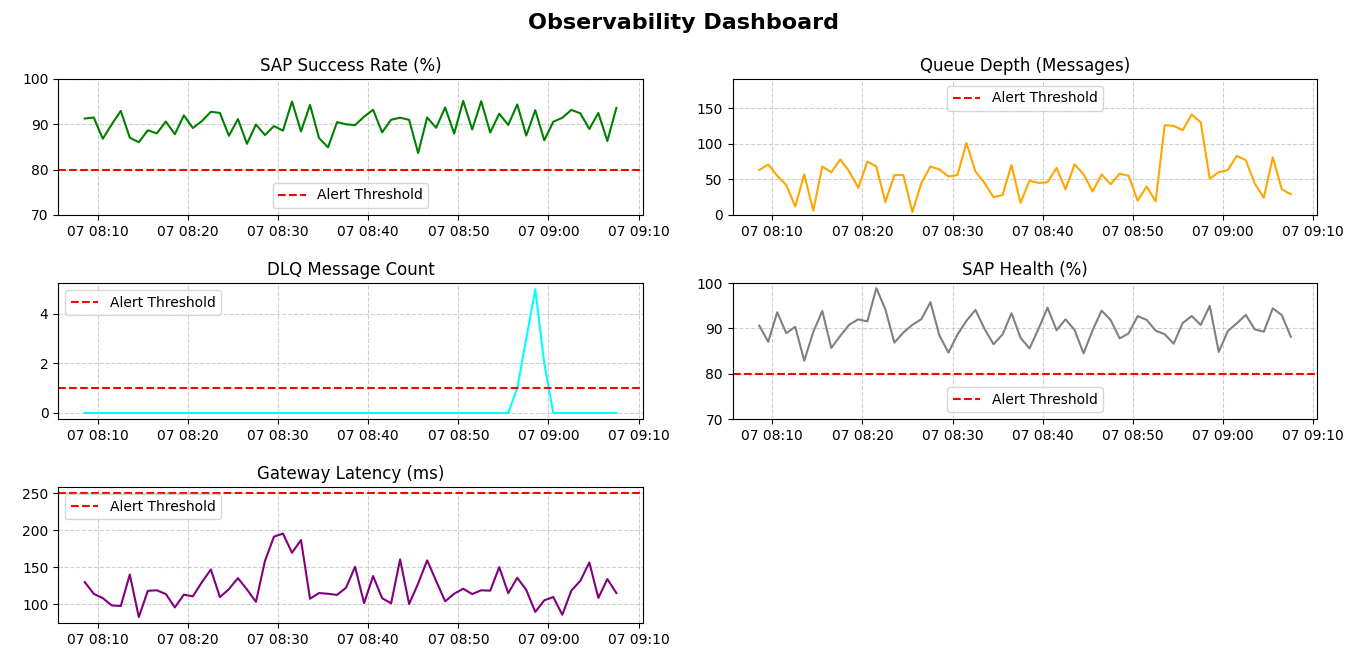
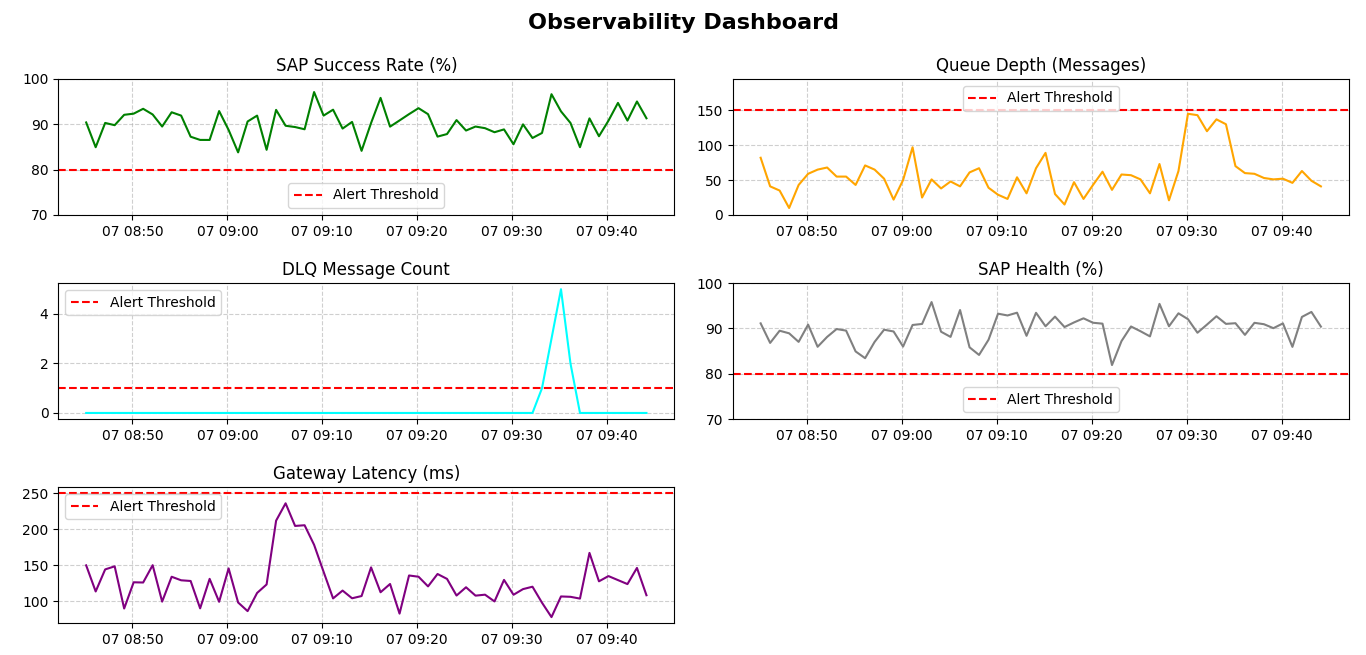
Observability metrics graph edited.

diff --git a/metrics-graph.py b/metrics-graph.py
@@ -37,7 +37,7 @@ axs[0, 1].plot(times, queue_depth, color='orange')
 axs[0, 1].set_title("Queue Depth (Messages)")
 axs[0, 1].set_ylim(0, max(queue_depth) + 50)
 axs[0, 1].grid(True, linestyle='--', alpha=0.6)
-axs[0, 1].axhline(200, color='red', linestyle='--', label='Alert Threshold')
+axs[0, 1].axhline(150, color='red', linestyle='--', label='Alert Threshold')
 axs[0, 1].legend(loc='upper center')
 
 

diff --git a/readme.md b/readme.md
@@ -253,3 +253,5 @@ successful.
 **In the graphic below you can see an example for a dashboard. In reality AWS CloudWatch Dashboards or Grafana for AWS CloudWatch can be used to monitor the metrics in real time. The alarms can also be monitored on CloudWatch Alarms View.**
 
 <img src="/images/observability-metrics-graph.png" height="screen" width="screen">
+
+> 📌 Notice that those thresholds are just examples.
